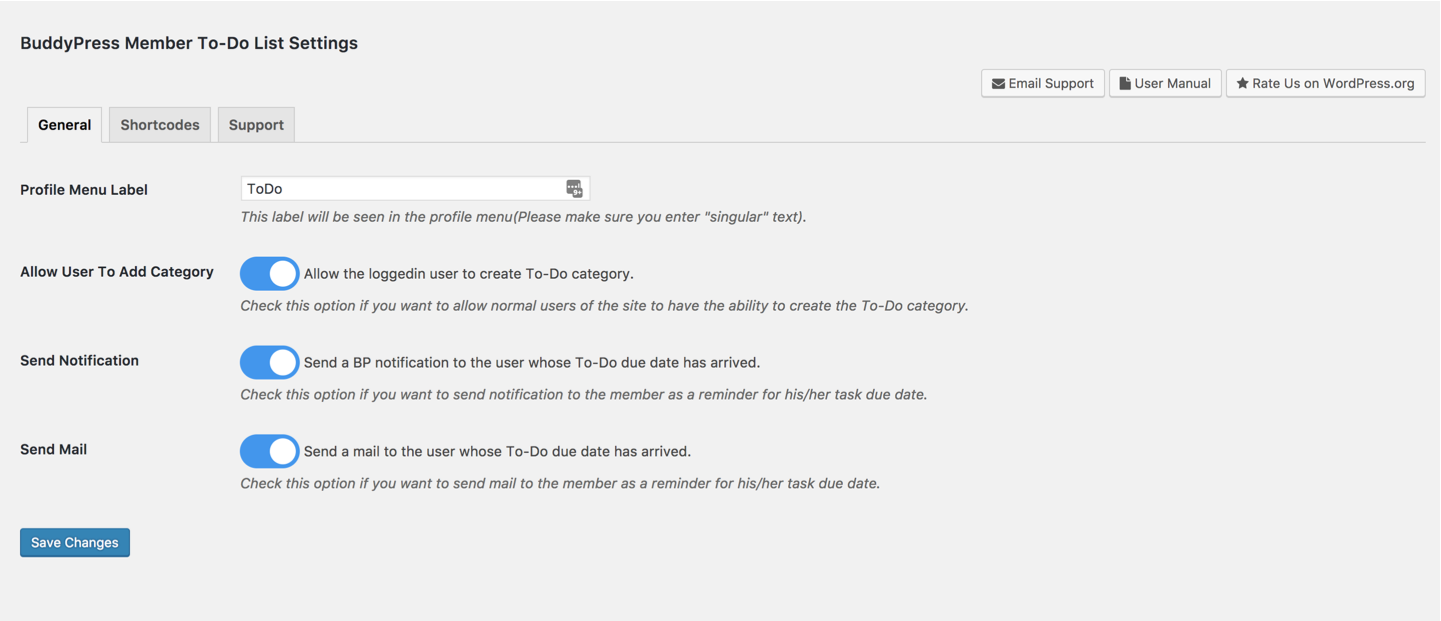
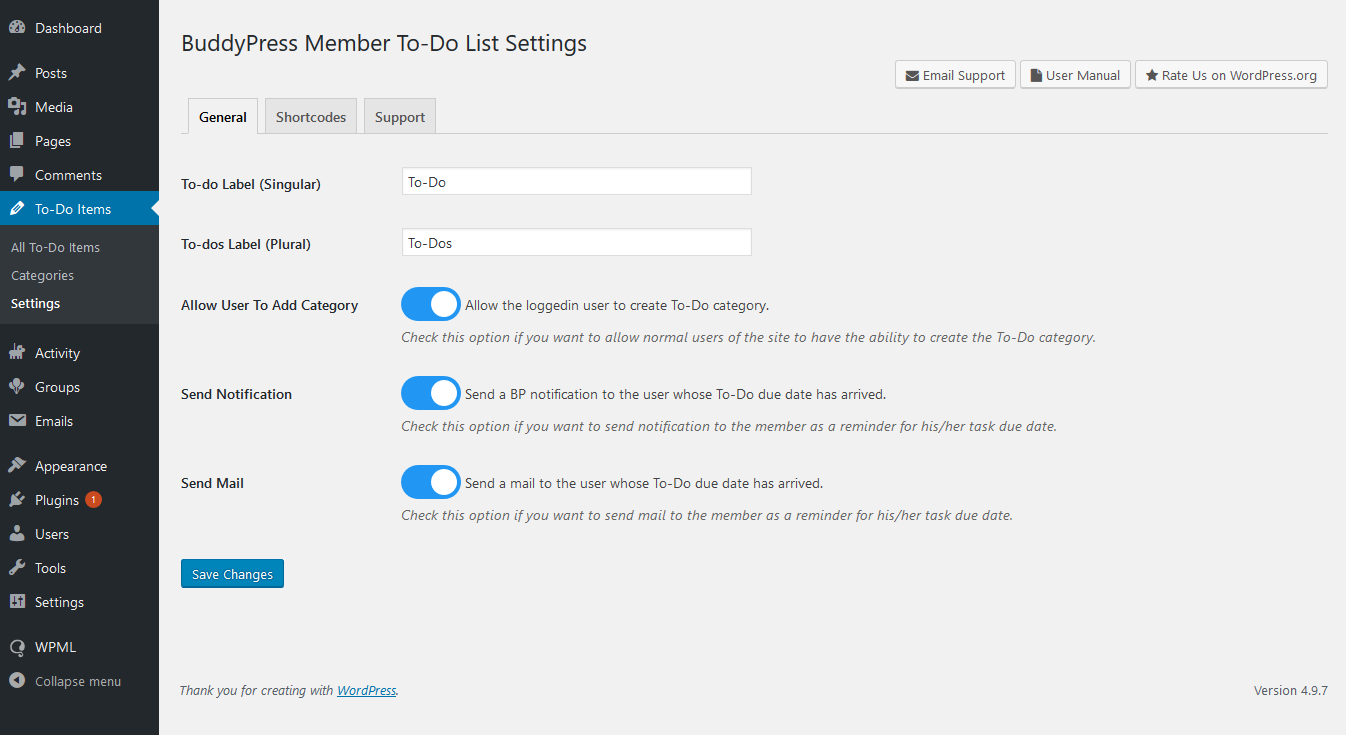
Bug fixes

diff --git a/inc/class-bptodo-globals.php b/inc/class-bptodo-globals.php
@@ -109,13 +109,17 @@ if ( ! class_exists( 'Bptodo_Globals' ) ) {
 		 */
 		public function setup_globals() {
 			global $bptodo;
-			$settings                 = get_option( 'user_todo_list_settings' );
-			$this->profile_menu_label = 'To-Do';
+			$settings                        = get_option( 'user_todo_list_settings' );
+			$this->profile_menu_label        = esc_html__( 'To-Do', 'wb-todo' );
+			$this->profile_menu_label_plural = esc_html__( 'To-Dos', 'wb-todo' );
 			if ( isset( $settings['profile_menu_label'] ) ) {
 				$this->profile_menu_label = $settings['profile_menu_label'];
 			}
 
-			$this->profile_menu_label_plural = $this->pluralize( $this->profile_menu_label );
+			if ( isset( $settings['profile_menu_label_plural'] ) ) {
+				$this->profile_menu_label_plural = $settings['profile_menu_label_plural'];
+			}
+
 			$this->profile_menu_slug         = str_replace( ' ', '-', strtolower( $this->profile_menu_label ) );
 
 			/** Allow User To Add Todo Category. */
@@ -138,31 +142,6 @@ if ( ! class_exists( 'Bptodo_Globals' ) ) {
 
 			/** Count my todo items. */
 			$this->my_todo_items = $this->bptodo_count_my_todo_items();
-		}
-
-		/**
-		 * Define all the global variable values.
-		 *
-		 * @since    1.0.0
-		 * @access   public
-		 * @author   Wbcom Designs
-		 * @param    string $singular contains label string.
-		 * @param    string $plural contains label string.
-		 */
-		public static function pluralize( $singular, $plural = null ) {
-			if ( null != $plural ) {
-				return $plural;
-			}
-
-			$last_letter = strtolower( $singular[ strlen( $singular ) - 1 ] );
-			switch ( $last_letter ) {
-				case 'y':
-					return substr( $singular, 0, -1 ) . 'ies';
-				case 's':
-					return $singular . 'es';
-				default:
-					return $singular . 's';
-			}
 		}
 
 		/**

diff --git a/inc/todo/list.php b/inc/todo/list.php
@@ -8,8 +8,9 @@ if ( ! defined( 'ABSPATH' ) ) {
 	exit;
 }
 global $bptodo;
-$profile_menu_slug  = $bptodo->profile_menu_slug;
-$profile_menu_label = $bptodo->profile_menu_label;
+$profile_menu_slug         = $bptodo->profile_menu_slug;
+$profile_menu_label        = $bptodo->profile_menu_label;
+$profile_menu_label_plural = $bptodo->profile_menu_label_plural;
 
 // Save todo items.
 if ( isset( $_POST['todo_create'] ) && wp_verify_nonce( $_POST['save_new_todo_data_nonce'], 'wp-bp-todo' ) ) {
@@ -202,7 +203,7 @@ if ( empty( $todos ) ) {
 										<?php echo esc_html( $all_remaining_todo, 'wb-todo' ); ?>
 									</span>
 								</h4>
-								<p><?php echo esc_html( $profile_menu_label . '(s) remaining', 'wb-todo' ); ?></p>
+								<p><?php echo esc_html( $profile_menu_label_plural . ' Remaining', 'wb-todo' ); ?></p>
 							</li>
 
 							<li class="bp-todo-dashboard-at-a-glance-box" id="bptodo-remaining-task-count">
@@ -211,7 +212,7 @@ if ( empty( $todos ) ) {
 										<?php echo esc_html( $all_completed_todo, 'wb-todo' ); ?>
 									</span>
 								</h4>
-								<p><?php echo esc_html( $profile_menu_label . '(s) Completed', 'wb-todo' ); ?></p>
+								<p><?php echo esc_html( $profile_menu_label_plural . ' Completed', 'wb-todo' ); ?></p>
 							</li>
 
 						</ul>

diff --git a/admin/inc/bptodo-general-settings.php b/admin/inc/bptodo-general-settings.php
@@ -15,10 +15,17 @@ global $bptodo;
 		<tbody>
 			<!-- PROFILE MENU LABEL -->
 			<tr>
-				<th scope="row"><label for="bptodo-profile-menu-label"><?php esc_html_e( 'Profile Menu Label', 'wb-todo' ); ?></label></th>
+				<th scope="row"><label for="bptodo-profile-menu-label"><?php esc_html_e( 'To-do Label (Singular)', 'wb-todo' ); ?></label></th>
 				<td>
 					<input type="text" placeholder="<?php esc_html_e( 'Label', 'wb-todo' ); ?>" name="bptodo_profile_menu_label" value="<?php echo esc_html( $bptodo->profile_menu_label, 'wb-todo' ); ?>" class="regular-text" required>
-					<p class="description"><?php esc_html_e( 'This label will be seen in the profile menu(Please make sure you enter "singular" text).', 'wb-todo' ); ?></p>
+				</td>
+			</tr>
+
+			<!-- TODO MENU LABEL -->
+			<tr>
+				<th scope="row"><label for="bptodo-profile-menu-label"><?php esc_html_e( 'To-dos Label (Plural)', 'wb-todo' ); ?></label></th>
+				<td>
+					<input type="text" placeholder="<?php esc_html_e( 'To-dos', 'wb-todo' ); ?>" name="bptodo_profile_menu_label_plural" value="<?php echo esc_html( $bptodo->profile_menu_label_plural, 'wb-todo' ); ?>" class="regular-text" required>
 				</td>
 			</tr>
 

diff --git a/admin/class-bptodo-admin.php b/admin/class-bptodo-admin.php
@@ -208,6 +208,9 @@ if ( ! class_exists( 'Bptodo_Admin' ) ) {
 				if ( isset( $_POST['bptodo_profile_menu_label'] ) ) {
 					$settings['profile_menu_label'] = sanitize_text_field( wp_unslash( $_POST['bptodo_profile_menu_label'] ) );
 				}
+				if ( isset( $_POST['bptodo_profile_menu_label_plural'] ) ) {
+					$settings['profile_menu_label_plural'] = sanitize_text_field( wp_unslash( $_POST['bptodo_profile_menu_label_plural'] ) );
+				}
 				if ( isset( $_POST['bptodo_allow_user_add_category'] ) ) {
 					$settings['allow_user_add_category'] = sanitize_text_field( wp_unslash( $_POST['bptodo_allow_user_add_category'] ) );
 				}

diff --git a/inc/class-bptodo-profile-menu.php b/inc/class-bptodo-profile-menu.php
@@ -158,9 +158,9 @@ if ( ! class_exists( 'Bptodo_Profile_Menu' ) ) {
 		 */
 		public function list_todo_tab_function_to_show_title() {
 			global $bptodo;
-			$profile_menu_label_plural = $bptodo->profile_menu_label_plural;
+			$profile_menu_label = $bptodo->profile_menu_label;
 			echo '<h4>';
-			echo esc_html( $profile_menu_label_plural, 'wb-todo' );
+			esc_html_e( $profile_menu_label, 'wb-todo' );
 			esc_html_e( ' List', 'wp-todo' );
 			$args  = array(
 				'post_type'      => 'bp-todo',
